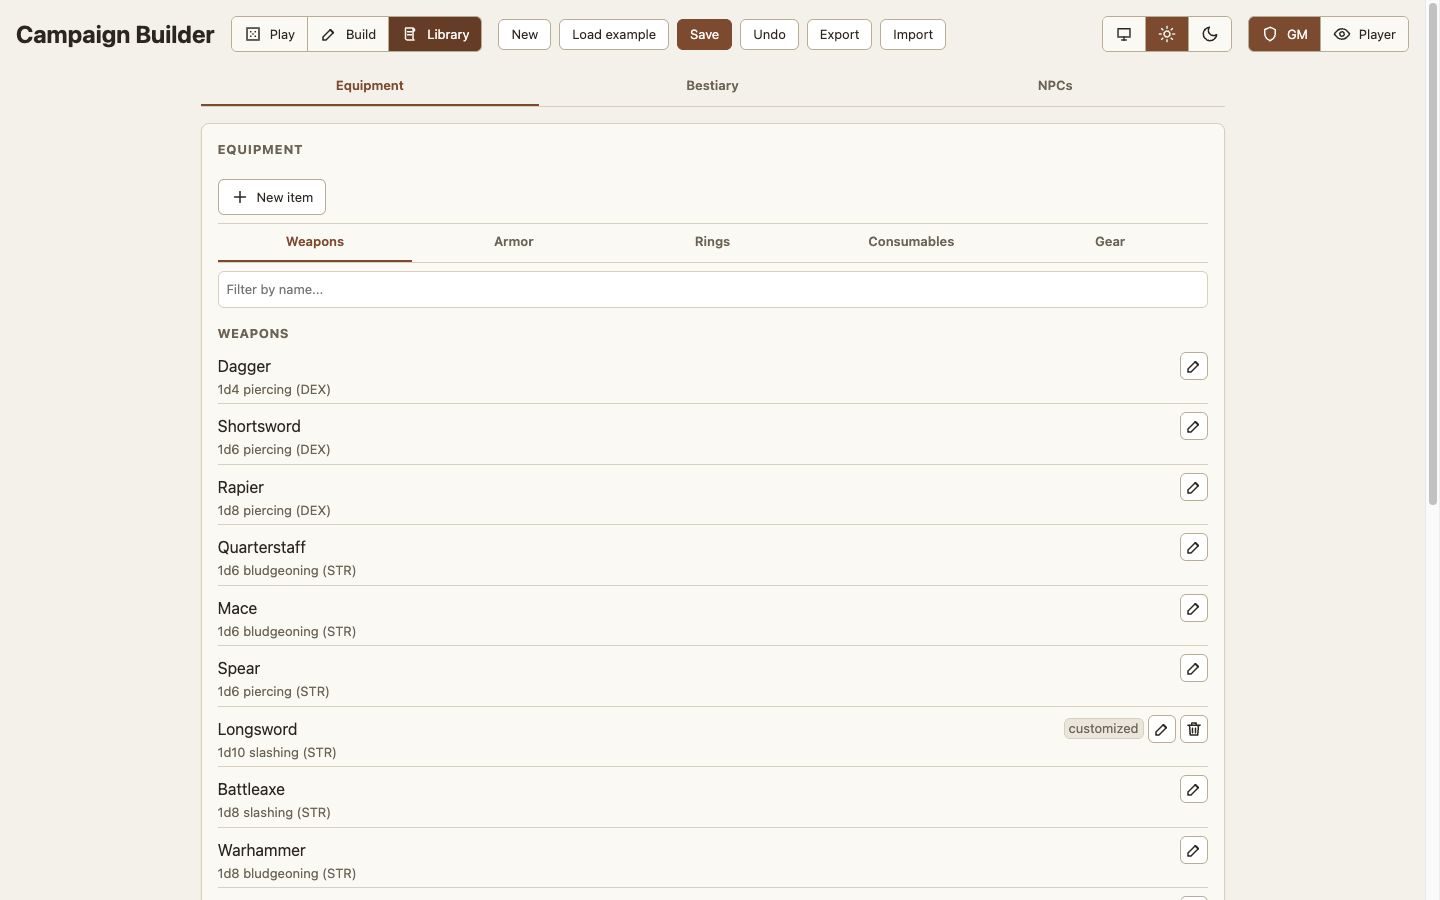
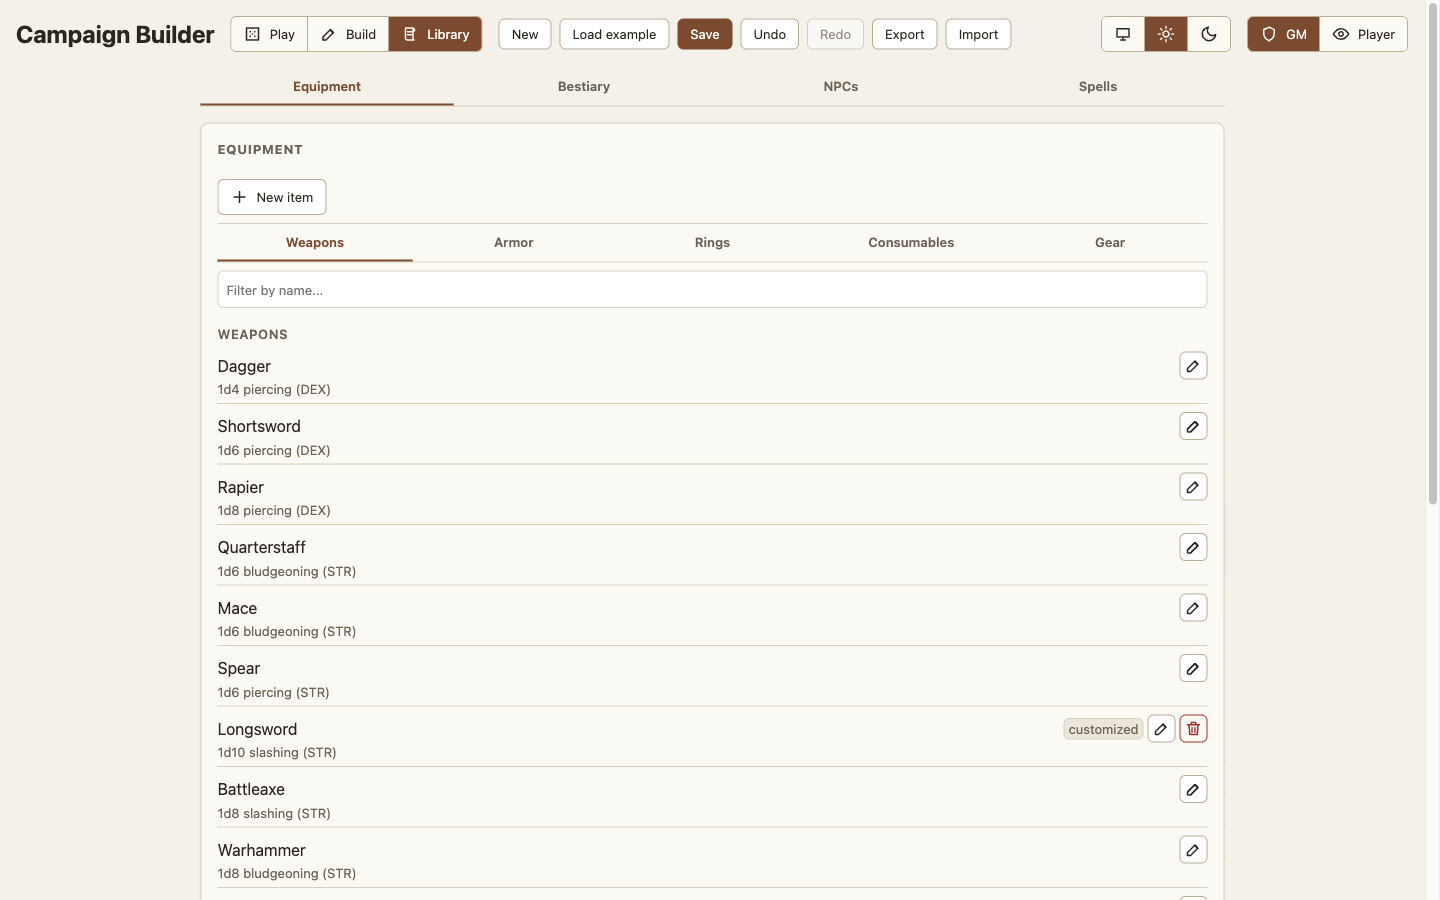
Recapture the documentation screenshots against the current interface.
The four illustrations in the README and the GM guide predated several interface
changes, so they no longer matched what a reader sees: the play-mode character
panel now carries Character, Equipment, Inventory, and Spellbook tabs, the build
mode world tree rows carry add, edit, and delete actions, and the library gained
a fourth tab for spells. All four are retaken from the example campaign at
1440x900 in the same framing as before, one per theme for play mode.

The library section of the GM guide described three tabs and now describes four,
with a new screenshot of the spell catalog grouped by spell level.

diff --git a/docs/gm-guide.md b/docs/gm-guide.md
@@ -232,7 +232,7 @@ from the direction of approach, rather than dropping into a fully fogged interio
 ## The library (Library mode)
 
 The third header mode opens the **library**: a map-less, GM-only view of the
-reusable templates that feed the preset pickers everywhere else. It has three
+reusable templates that feed the preset pickers everywhere else. It has four
 tabs:
 
 ![Library mode: the Equipment tab with its category subtabs and a customized override](images/library-mode.png)
@@ -248,6 +248,11 @@ tabs:
   cultist). The hand-off icon on a row opens the normal New NPC dialog
   pre-filled from the template, so you can drop one into the campaign and
   place it in one step.
+- **Spells** — the spell catalog a character's spellbook picks from, grouped by
+  spell level with each entry's school and effect kind (attack, save, utility)
+  under its name, and concentration marked where it applies.
+
+![Library mode: the Spells tab, grouped by spell level](images/library-spells.png)
 
 Every entry is editable. Editing a **built-in default** doesn't destroy it; it
 stores an *override* in your custom library (the row gains a "customized"
